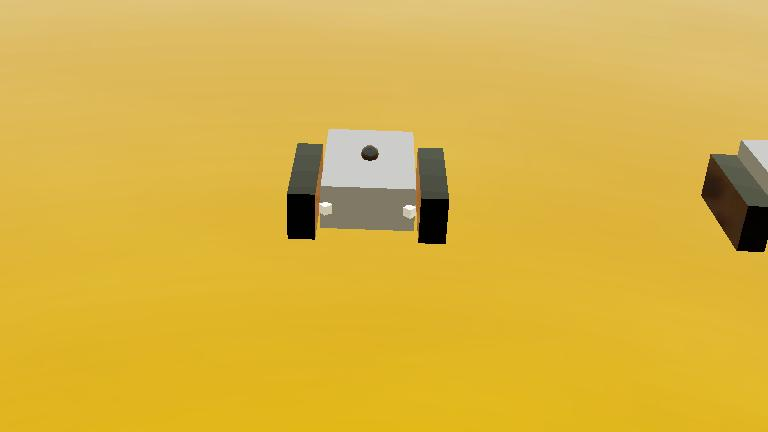
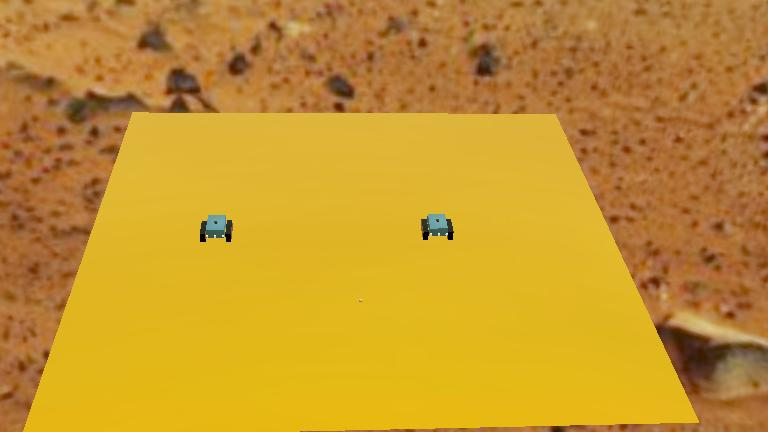
added texture images, spawning rocks (targets), changed target assigning system, added front distance sensor, world changes

diff --git a/controllers/coordinator_controller/coordinator_controller.py b/controllers/coordinator_controller/coordinator_controller.py
@@ -6,20 +6,19 @@ coordinator = Supervisor()
 timestep = int(coordinator.getBasicTimeStep())
 next_target_time = 0
 target_interval = 15.0
-unassigned_targets = []
+unassigned_targets = [(6,0)] # template rock spawn position 
 registered_rovers = {}
+maximumTargetsPerRover = 3
+rocks = {}
 emitter = coordinator.getDevice("emitter")
 receiver = coordinator.getDevice("receiver")
 receiver.enable(timestep)
+rockNumber = 0
 
-def canSendTarget():
-    return True
-
-
-def ClosestRover(rovers, target):
+def ClosestRoverPath(rovers, target):
     closest_rover = None
     closest_distance = float('inf')
-    #print("rovers: " + str(rovers))
+    print("rovers positions: " + str({rover: registered_rovers[rover]["position"] for rover in rovers}))
     for rover in rovers:
         rover_position = registered_rovers[rover]["position"]
         #print(f"Rover {rover} position: {rover_position}, target: {target}")
@@ -27,18 +26,44 @@ def ClosestRover(rovers, target):
         if distance < closest_distance:
             closest_distance = distance
             closest_rover = rover
+        for targetPoint in registered_rovers[rover]["targets"]:
+            distance = ((targetPoint[0] - target[0]) ** 2 + (targetPoint[1] - target[1]) ** 2) ** 0.5
+            if distance < closest_distance:
+                closest_distance = distance
+                closest_rover = rover
+    print(f"Closest rover to target {target} is {closest_rover} at distance {closest_distance}")
     return closest_rover
 
+def SpawnRock(x, y):
+    global rockNumber
+    template = coordinator.getFromDef("TemplateRock")
+    root = coordinator.getRoot()
+    if template is not None:
+        rock_string = template.exportString()
+        rock_string = rock_string.replace("TemplateRock", f"Rock_{rockNumber}")
+        root.getField("children").importMFNodeFromString(-1, rock_string)
+        new_rock = coordinator.getFromDef(f"Rock_{rockNumber}")
+        new_rock.getField("translation").setSFVec3f([x, y, 0])
+        new_rock.getField("name").setSFString(f"Rock_{rockNumber}")
+        rockNumber += 1
+        rocks[f"Rock_{x}_{y}"] = new_rock
 
+frameCount = 0
 while coordinator.step(timestep) != -1:
-    if receiver.getQueueLength() > 0:
+    frameCount += 1
+    while receiver.getQueueLength() > 0:
         message = receiver.getString()
         task, roverName = tuple(map(str, message.split(',')[0:2]))
         if task == "register":
-            registered_rovers[roverName] = {"status": "available", "position": (0, 0)}
+            registered_rovers[roverName] = {"status": "available", "position": (0, 0), "targets": []}
         elif task == "complete":
-            #print(f"Rover {roverName} has completed its task.")
+            #print(f"Rover {roverName} has completed its task. Coordinator")
+            target_x, target_y = tuple(map(float, message.split(',')[2:]))
+            if f"Rock_{target_x}_{target_y}" in rocks:
+                rocks[f"Rock_{target_x}_{target_y}"].remove()
+                del rocks[f"Rock_{target_x}_{target_y}"]
             registered_rovers[roverName]["status"] = "available"
+            registered_rovers[roverName]["targets"].remove((target_x, target_y))
         elif task == "positionUpdate":
             x, y = tuple(map(float, message.split(',')[2:]))
             registered_rovers[roverName]["position"] = (x, y)
@@ -46,21 +71,29 @@ while coordinator.step(timestep) != -1:
             registered_rovers[roverName]["status"] = "unavailable"
             target = tuple(map(float, message.split(',')[2:]))
             #print(f"Rover {roverName} returned target {target}. Adding back to unassigned targets.")
+            registered_rovers[roverName]["targets"].remove(target)
             unassigned_targets.append(target)
         elif task == "unavailable":
             #print(f"Rover {roverName} is now unavailable.")
             registered_rovers[roverName]["status"] = "unavailable"
+        elif task == "available":
+            registered_rovers[roverName]["status"] = "available"
         receiver.nextPacket()
-    if coordinator.getTime() >= next_target_time:
+    if coordinator.getTime() >= next_target_time and len(unassigned_targets) < 8:
         target = (random.uniform(-10, 10), random.uniform(-10, 10))
+        SpawnRock(target[0], target[1])
         unassigned_targets.append(target)
         next_target_time += target_interval
-    if canSendTarget() and len(unassigned_targets) > 0:
-        target = unassigned_targets.pop(0)
-        available_rovers = [rover for rover, info in registered_rovers.items() if info["status"] == "available"]
+    if len(unassigned_targets) > 0 and frameCount > 1:
+        target = unassigned_targets[0]
+        available_rovers = [rover for rover, info in registered_rovers.items() if info["status"] != "unavailable" and len(info["targets"]) < maximumTargetsPerRover]
         if available_rovers:
-            roverName = ClosestRover(available_rovers, target)
-            #print(f"Sending target {target} to rover {roverName}")
+            roverName = ClosestRoverPath(available_rovers, target)
+            #print(f"Assigning")
             registered_rovers[roverName]["status"] = "busy"
+            registered_rovers[roverName]["targets"].append(target)
+            #print("registered rover targets: " + str(registered_rovers[roverName]["targets"]))
             message = f"target,{roverName},{target[0]},{target[1]}".encode('utf-8')
             emitter.send(message)
+            print("popping unassigned target: " + str(unassigned_targets[0]))
+            unassigned_targets.pop(0)

diff --git a/controllers/mars_rover_controller/mars_rover_controller.py b/controllers/mars_rover_controller/mars_rover_controller.py
@@ -4,8 +4,10 @@ import math
 robot = Robot()
 keyboard = Keyboard()
 
+
 timestep=int(robot.getBasicTimeStep())
 keyboard.enable(timestep)
+
 
 left_motor = robot.getDevice("left motor")
 right_motor = robot.getDevice("right motor")
@@ -19,11 +21,13 @@ emitter = robot.getDevice("emitter")
 # collision stuff
 distanceSensorLeft = robot.getDevice("distanceSensorLeft")
 distanceSensorRight = robot.getDevice("distanceSensorRight")
-if distanceSensorLeft is None or distanceSensorRight is None:
+distanceSensorFront = robot.getDevice("distanceSensorFront")
+if distanceSensorLeft is None or distanceSensorRight is None or distanceSensorFront is None:
     pass
 else:
     distanceSensorLeft.enable(timestep)
     distanceSensorRight.enable(timestep)
+    distanceSensorFront.enable(timestep)
 
 
 gps.enable(timestep)
@@ -34,9 +38,8 @@ left_motor.setPosition(float("inf"))
 right_motor.setPosition(float("inf"))
 
 speed = 0.5
-wait_time = 3.0
 DistanceThreshold = 0.8
-targets = [(5,5)]
+targets = []
 
 manualDriving = False
 collisionStop = False
@@ -77,22 +80,23 @@ def setMotorSpeeds():
 
 def HandleCollisionSafety():
     global collisionStop, avoidingObstacle, currentAvoidingTime
-    if distanceSensorLeft is None or distanceSensorRight is None: return
+    if distanceSensorLeft is None or distanceSensorRight is None or distanceSensorFront is None: return
     left_distance = distanceSensorLeft.getValue()
     right_distance = distanceSensorRight.getValue()
-    #print(f"Left distance: {left_distance}, Right distance: {right_distance}")
-    if left_distance < 5 or right_distance < 5:
-        print("Collision detected! Stopping the rover.")
+    front_distance = distanceSensorFront.getValue()
+    #print(f"Left distance: {left_distance}, Right distance: {right_distance}, Front distance: {front_distance}")
+    if left_distance < 5 or right_distance < 5 or front_distance < 5:
+        #print("Collision detected! Stopping the rover.")
         collisionStop = True
         stop()
         ReturnTargets()
-    elif left_distance < right_distance:
-        print("Obstacle detected on the left")
+    elif left_distance < right_distance or front_distance < 80:
+        #print("Obstacle detected on the left")
         turnRight(speed/2)
         avoidingObstacle = True
         currentAvoidingTime = 0
     elif right_distance < left_distance:
-        print("Obstacle detected on the right")
+        #print("Obstacle detected on the right")
         turnLeft(speed/2)
         avoidingObstacle = True
         currentAvoidingTime = 0
@@ -130,7 +134,7 @@ while robot.step(timestep) != -1:
         ReturnTargets()
     elif key == "T":
         manualDriving = False
-        emitter.send(f"complete,{robot.getName()}".encode('utf-8'))
+        emitter.send(f"available,{robot.getName()}".encode('utf-8'))
     if manualDriving:
         status_led.set(0x0000FF)
         stop()
@@ -165,20 +169,26 @@ while robot.step(timestep) != -1:
         distance = math.sqrt(dx**2 + dy**2)
         #print("distance to target: " + str(distance))
         if distance < DistanceThreshold:
-            targets.pop(0)
-            print("Rover " + robot.getName() + " Target reached! Remaining targets: " + str(len(targets)))
-            emitter.send(f"complete,{robot.getName()}".encode('utf-8'))
+            target = targets[0]
             stop()
-            if len(targets) == 0:
-                print("Rover " + robot.getName() + " Tasks completed!")
             setMotorSpeeds()
-            for _ in range(int(wait_time * 1000 / timestep)):
+
+            wait_time = 3.0
+            while robot.step(timestep) != -1:
                 #print("Waiting for " + str(wait_time) + " seconds...")
+                wait_time -= timestep / 1000.0
+                if wait_time <= 0:
+                    break
                 status_led.set(0x00FFFF)
                 robot.step(timestep)
+            emitter.send(f"complete,{robot.getName()},{target[0]},{target[1]}".encode('utf-8'))
+            targets.pop(0)
+            print("Rover " + robot.getName() + " Target reached! Remaining targets: " + str(len(targets)))
+            #if len(targets) == 0:
+                #print("Rover " + robot.getName() + " Tasks completed!")
         HandleCollisionSafety()
     elif avoidingObstacle:
-        print("Avoiding obstacle...")
+        #print("Avoiding obstacle...")
         status_led.set(0xFFFF00)
         forward(speed/2)
         HandleCollisionSafety()
